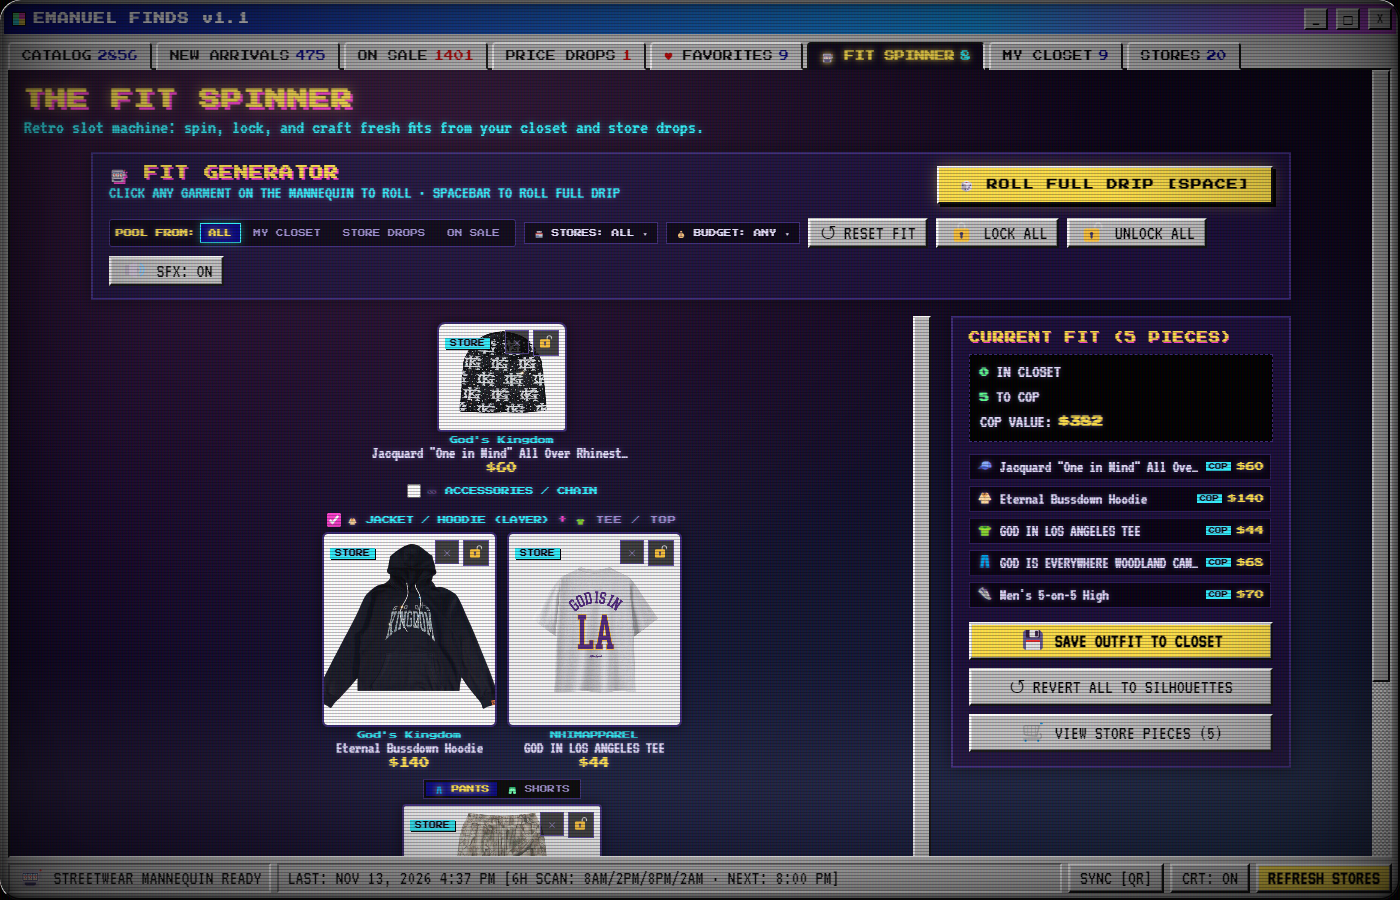
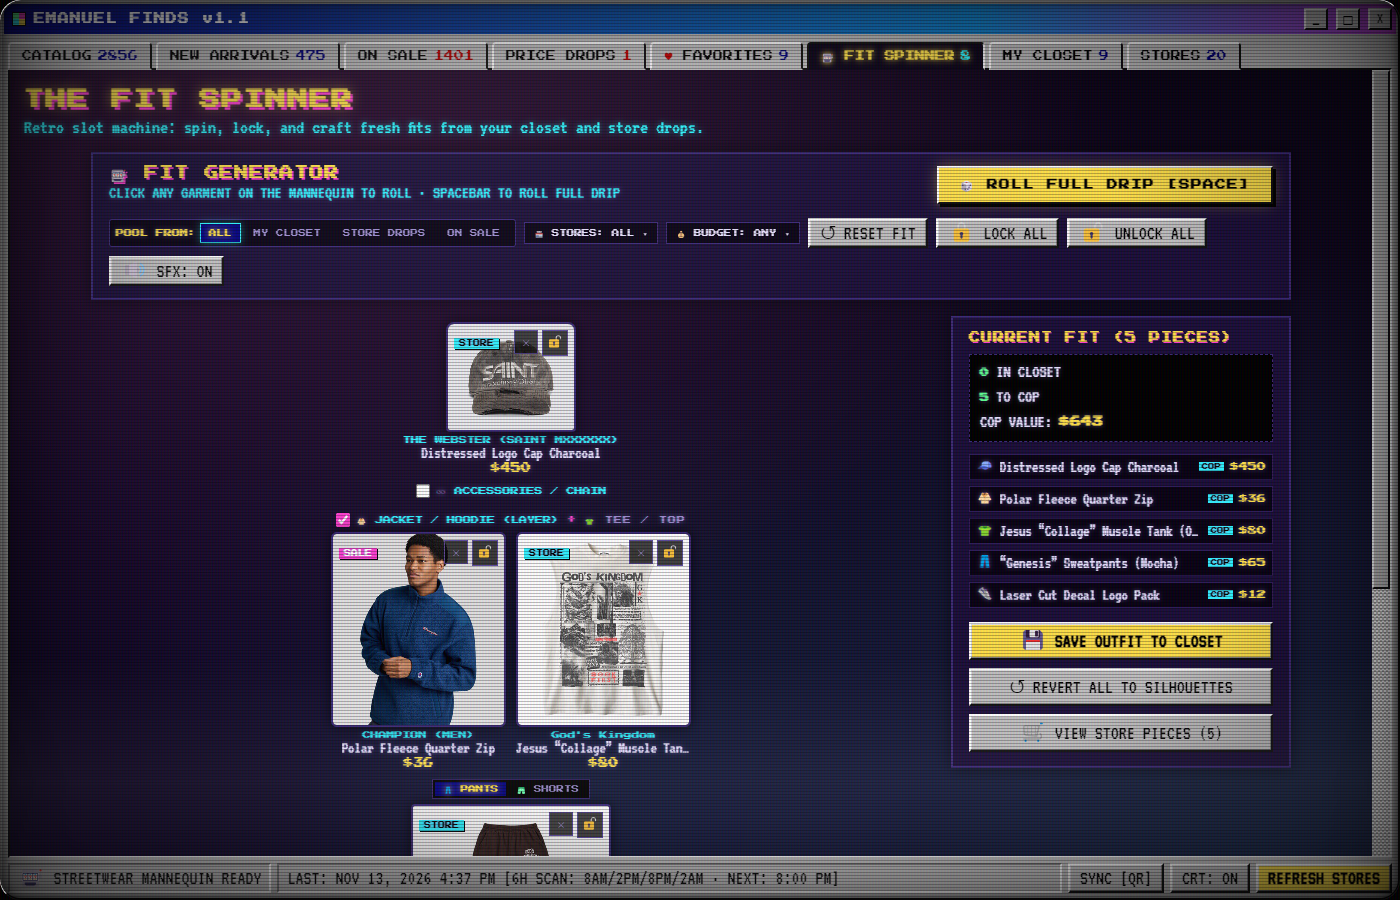
fix(ui): eliminate duplicate inner scrollbars on fit spinner tab

diff --git a/renderer/style.css b/renderer/style.css
@@ -1051,8 +1051,6 @@ body.mobile #crt::before { background: repeating-linear-gradient(0deg, rgba(0, 0
   justify-content: center;
   background: radial-gradient(ellipse at 50% 50%, rgba(44, 246, 255, 0.05) 0%, transparent 70%);
   padding: 6px 0 20px;
-  max-height: calc(100vh - 150px);
-  overflow-y: auto;
 }
 
 .mannequin-silhouette-body {
@@ -1460,9 +1458,6 @@ body.mobile #crt::before { background: repeating-linear-gradient(0deg, rgba(0, 0
   flex-direction: column;
   gap: 6px;
   margin-bottom: 14px;
-  max-height: 40vh;
-  overflow-y: auto;
-  padding-right: 2px;
 }
 
 .summary-piece-row {
